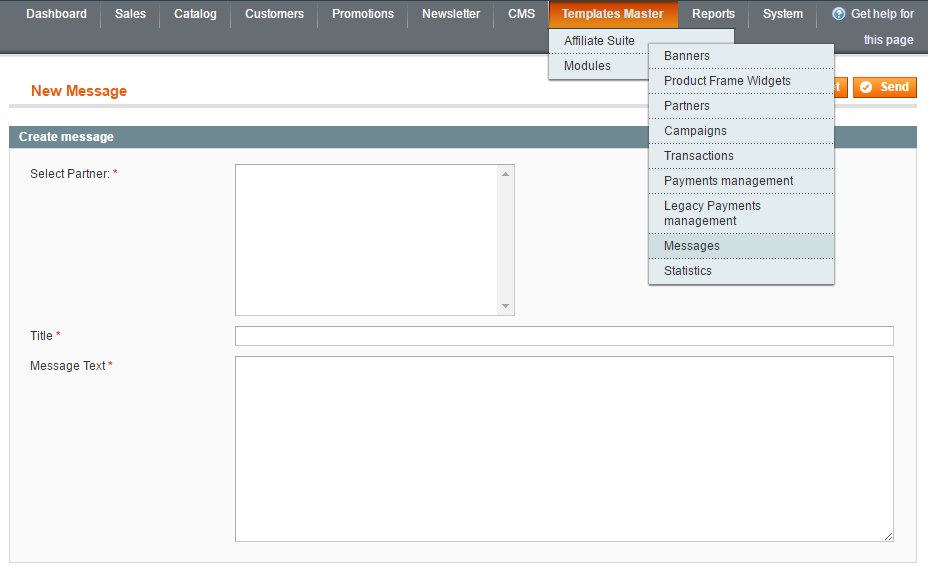
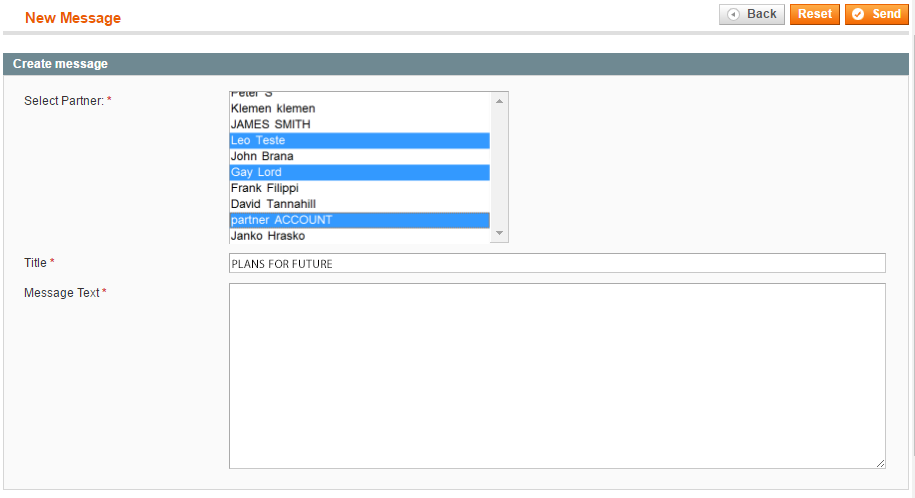
affiliate suite manual added

diff --git a/m1/extensions/affiliatesuite/admin-interfaces-for-admins.md b/m1/extensions/affiliatesuite/admin-interfaces-for-admins.md
@@ -1,0 +1,140 @@
+---
+layout: default
+title: Affiliate Suite for admins
+description: magento affiliate suite module
+keywords: >
+  magento affiliate program, magento affiliate extension, magento affiliate plugin, 
+  magento affiliate coupon, affiliate extension magento
+category: Affiliate Suite
+---
+
+# Admin interfaces for admins
+
+- [How to create and manage Affiliate campaign](#how-to-create-and-manage-affiliate-campaign)
+- [How to create banners](#how-to-create-banners)
+- [Manage Affiliate partners](#manage-affiliate-partners)
+- [Manage Payments](#manage-payments)
+- [Transactions Menu](#transactions-menu)
+- [Manage Messages](#manage-messages)
+- [Manage Statistics](#manage-statistics)
+- [Affiliate registration link](#affiliate-registration-link)
+
+### How to create and manage Affiliate campaign
+
+Add new campaign by navigating to `Templates Master / Affiliate Suite / Campaigns` and click **Add New Campaign**.
+
+You can see 2 tabs: `Campaign’s properties` and `Detailed commission conditions`.
+
+![Affiliate program management](/images/m1/extensions/affiliate/campaign-information.png)
+
+-   `Title` - set title of the campaign.
+-   `Partner Status` - the campaign can be either Hidden or Visible. Hidden campaigns will be applied and visible to partners no longer.
+
+![Affiliate program management](/images/m1/extensions/affiliate/commission-information.png)
+
+Please specify a partner commission amount here. Fill in the fields. In **Click price** set fixed commission amount for each clicks. In **Registration price** choose fixed commission amount for each new client’s registred via referral link or banner. In **Sale price** set commission for each order reffered via affialite link (fixed amount or percent of product value).
+
+### How to create banners?
+
+Your partners can use your affiliate banner on their website, blog or in social media. In order to create new banner or to edit an existing one, you can go `Templates Master / Affiliate Suite / Banners`.
+
+![Affiliate program management](/images/m1/extensions/affiliate/banner.png)
+
+-   `Banner Type` - there are 4 different banner types such as image, html, text link and link.
+-   `Name` - set the banner name here.
+-   `Description` - specify the description on the banner.
+-   `Store View` - assign your banner to specific store view.
+-   `Url` - assign a link to the banner (when you click a banner, it will redirect you to this link).
+-   `Target` - set `Target html attribute` for anchor tag. Choose `Blank` to open the referred page in new browser tab or `Self` to open it in the current one.
+-   `Image` - upload the image from your computer.
+-   `Image Url` - specify image address for a banner located on different location.
+-   `Image Width/height` - set a size of banner.
+-   `Link text` - set a text for a link banner.
+-   `Html code` - insert html code here if you are using html type banner.
+
+### Manage Affiliate partners
+
+Go to `Templates Master / Affiliate Suite / Partners`. 
+
+#### Partners grid
+
+`Manage partners` interface provides you with a list of all affiliate partners with information about their activation status and registration date. You can view details by clicking on selected partner. In order to lock the referral account of a partner, you have to click on this partner and change a status to `Disapproved` in the `Edit Partner menu` (once an Affiliate account is disapproved, this partner can’t use any Affiliate functions untill it will be approved again). Finally click **Save Partner** button.
+
+#### Approving Pending Members
+
+Using **Status** selector, you can change Pending status to Approved. In case you don’t want to approve partner, please select Disapproved.
+
+#### Adding new Partner
+
+![Affiliate program management](/images/m1/extensions/affiliate/edit-partner.png)
+
+-   `Data` - please fill in all required fields.
+-   `Paids`- shows a partner payment history. Check out all payments made as well as the pending and detailed transaction information.
+-   `Orders` - here you can a list of all products ordered by reffered customers and their orders' status.
+-   `Customers` - here you can see a list of reffered customers and their account details.
+
+### Manage Payments
+
+Go `Templates Master / Affiliate Suite / Payments management`.
+
+Store administrator can automatically sum up all transactions for every partner as well as manage payouts. Index transaction button processes all transactions and checks if minimal payment sum and minimal period are met. Both these settings can be changed in `Affiliate Suite extension configuration`. As soon as transactions have been processed, admin can export lists to CSV or XML and set all transactions as paid.
+
+In order to index transaction, admin should click **Index transaction** button. Affiliate suite will sum up all transactions which already overcame the payout minimum period.
+
+If you've set the Minimum Payout Value to 2 weeks in order to check if the transaction was not a fraud, then all transactions made before that period will be with pending status.
+
+### Transactions Menu
+
+You can see a complete list of all transactions generated by partners. Each transaction includes the information about the order id, affiliate partner’s name, banner or Product Frame widget, transaction time and status.
+
+![Affiliate program management](/images/m1/extensions/affiliate/manage-transactions.png)
+
+Choose a transaction you want to edit. 
+
+![Affiliate program management](/images/m1/extensions/affiliate/view-transaction.png)
+
+`Order Products tab` shows the details of order products, including the name, price and commission.
+
+### Manage Messages
+
+Store administrator can send messages from the backend. 
+
+#### Sending message
+
+In order to send a message, go `Templates Master / Affiliate Suite / Messages` and click **New Message**. 
+
+![Affiliate program management](/images/m1/extensions/affiliate/new-message.png)
+
+#### Replying message
+
+All messages (incoming and outgoing) can be found in `Templates Master / Affiliate Suite / Messages` interface. 
+
+![Affiliate program management](/images/m1/extensions/affiliate/messages-grid.png)
+
+In order to reply a message, click selected message. You will be redirected to the `View Message` page. Now you can leave a reply and click **Send** afterwords.
+
+### Manage Statistics
+
+Statistics information is available at `Templates Master / Affiliate Suite / Statistics`. You can view detailed info about you affiliate partners, including their activation status, total pending and paid values.
+
+Information about Transaction (clicks, registrations and sales), Payout (Paid), Partner (Registration) and Traffic Log visualized Graphs is also available there.
+
+![Affiliate program management](/images/m1/extensions/affiliate/managing-statistics.png)
+
+You are also allowed to follow the information for selected period like a week, month, year or 2 years.
+
+### Affiliate registration link
+
+That module provides admin with a registration link that can be placed anywhere on site. Please add the following path after your site address:`affiliatesuite_admin/account/create`
+
+For example:`http://yourstore.com/index.php/affiliatesuite_admin/account/create/`
+
+If non-Affiliate customer clicks this link, he will be redirected to the registration page. The Affiliate partner will see `My Account page`.
+
+#### You can also check:
+
+*   [Installation](../installation/)
+*   [Configuration](../configuration/)
+*   [Admin interfaces for partners](../admin-interfaces-for-partners/)
+*   [Support](https://swissuplabs.com/contacts/)
+*   [Forum](https://swissuplabs.com/magento-forum/)

diff --git a/m1/extensions/affiliatesuite/admin-interfaces-for-partners.md b/m1/extensions/affiliatesuite/admin-interfaces-for-partners.md
@@ -1,0 +1,95 @@
+---
+layout: default
+title: Affiliate Suite for partners
+description: magento affiliate suite module
+keywords: >
+  magento affiliate program, magento affiliate extension, magento affiliate plugin, 
+  magento affiliate coupon, affiliate extension magento
+category: Affiliate Suite
+---
+
+# Admin interfaces for partners
+
+- [Subscribe to the Affiliate system](#subscribe-to-the-affiliate-system)
+- [Change partner account information](#change-partner-account-information)
+- [Change Campaign](#change-campaign)
+- [How to start earning with Affiliate Suite](#how-to-start-earning-with-affiliate-suite)
+- [Other tabs at front-end](#other-tabs-at-front-end)
+
+### Subscribe to the Affiliate system
+
+Partners can sign up for affiliate programm by registering on `Creating Partner Account` page. After registering, partners will be redirected to `My Account / Affiliate Partner Dashboard`. Partner account confirmation can also be required according to extension settings.
+
+Affiliate Partner’s page at front-end comes with the following interfaces:
+
+**Account Information, Banners, Proframe Widget, Create html affiliate link, Campaigns, Payouts, Transactions, Messages and Statistics.**
+
+### Change partner account information
+
+Affiliate partner can modify his referral account information at `My Account / Account information`. Partner can change preferable payment method and requisites on this page. As soon as partners transactions reach `Minimal payout` value, pratner will receive payouts.
+
+![General](/images/m1/extensions/affiliate/account-information.png)
+
+### Change Campaign
+
+In `My Account / Campaigns` interface the affiliate partner can choose the one of active campaign and get reward according to selected campaign settings.
+
+![Affiliate partners](/images/m1/extensions/affiliate/campaigns.png)
+
+### How to start earning with Affiliate Suite
+
+#### Using text link
+
+Visit the page you would like to share. Copy the **http link** from your browser address bar. Follow `Affiliate / My Account / Create html affiliate` link and paste the link into **Url** field, then press **Get Url Code** button.
+
+Now you can start sharing the affiliate link with your friends or other people. Text link can be shared on any type of chanells such as emails, forums or sites.
+
+![Affiliate partners](/images/m1/extensions/affiliate/using-text-url.png)
+
+#### Using Banner
+
+Affiliate banners can be placed in any website, blog or even social profile page.
+
+In order to get a banner code, please visit `My Account / Manage Banners` and select banner your want to place. In order to get banner copy, click **Show Banner Code** button and `copy banner HTML code`.
+
+![Affiliate partners](/images/m1/extensions/affiliate/manage-banners.png)
+
+#### Using Product frame Widget
+
+Product Frame Widget allows you to place the list of advertised products on partners website, forum, blog. In order to get Proframe Widget code, the partner should has to go to `My Account/ Proframe Widget` interface and select a widget he wants to use. Partners can customize Columns and Products count, inframe width and height settings according to their needs. Then partners can simply copy the provided code and place that on their forum, blog or website.
+
+![Affiliate partners](/images/m1/extensions/affiliate/proframe-widget.png)
+
+#### How to receive a payout?
+
+Affiliate partner can receive payouts as soon as balance reaches the minimal payout value and minimal payout period. Customer can easily check a current detailed payouts list at `My account \ Payouts`.
+
+### Other tabs at front-end
+
+#### Transactions interface
+
+This interface allows to view a detailed list of transactions generated by partners as well as  their current status.
+
+Transaction status for each new transaction will have pending status by default. As soon as transaction gets older then minimal payout period, it will get `Waiting for get paid` status. Each suspicious transaction can be blocked by an administrator. After transaction will be paid, the `Payments transactions status` will be changed to `Paid`.
+
+![Affiliate partners](/images/m1/extensions/affiliate/my-transactions.png)
+
+#### Messages
+
+Messages tab allows partners to send and to receive messages from affiliate managers. In order to send new message, please click **New Message** button and set the message body and title.
+
+![Affiliate partners](/images/m1/extensions/affiliate/message.png)
+
+### Statistics interface
+
+Statistic interface provides a complete information about clicks, registrations and sales generated by partners referees. 
+
+![Affiliate partners](/images/m1/extensions/affiliate/statistics-diagram.png)
+
+#### You can also check:
+
+*   [Installation](../installation/)
+*   [Admin interfaces for admins](../admin-interfaces-for-admins/)
+*   [Configuration](../configuration/)
+*   [Support](https://swissuplabs.com/contacts/)
+*   [Forum](https://swissuplabs.com/magento-forum/)

diff --git a/m1/extensions/affiliatesuite/configuration.md b/m1/extensions/affiliatesuite/configuration.md
@@ -15,4 +15,41 @@ category: Affiliate Suite
 - [Payout](#payout)
 - [Proframe widget](#proframe-widget)
 
+### General
 
+![General](/images/m1/extensions/affiliate/configuration-general.png)
+
+-   `Enable` - select **Yes** to enable Affiliate Suite extension.
+-   `Affiliate link in header` - if you select Yes, visitors will see the **Affiliate** link in the top menu.
+-   `Cookie Period (Days)` - specify the time for storing referee’s information in visitors cookies. Time is measured from referre clicked the link. Default value is 90 days.
+-   `Affiliate Url Param Name` - customizable URL prefix used in referral link, followed by referral’s unique code.
+
+### Affiliate account settings
+
+![General](/images/m1/extensions/affiliate/configuration-account-settings.png)
+
+-   `New accounts require approval` - if you select No, then partners, registered at your affiliate program, will be able to use Affiliate’s features immediately without the administrator’s approval. If you select Yes, then partners should wait for admin permission. Administrator can approve the pending accounts at `Affiliate Suite/Manage Partners` interface. In order to do that, administrator has to select pending partners account and change `status to Approved`.
+-   `Autoselect default campaign after new partner account is created` - select Yes to automatically assign the default campaign to new partners accounts.
+-   `Default campaign`- select the default campaign for new partners to let them use after completing registration.
+
+### Payout
+
+![General](/images/m1/extensions/affiliate/configuration-payout.png)
+
+-   `Minimal Period` - choose the minimal period that will be used for calcualting payouts and minimizing fraud transaction risk. All transaction that were placed before minimal period, will not be taken into total payout sum. Possible values: `weeks, two weeks or month`.
+-   `Methods`- specify the payout methods. For example, it can be Paypal, Googlecheckout.
+-   `Minimal Payout Value` - choose the Minimal Payout Value for referral. When partner’s balance reaches this point then partner will be able to receive a payout.
+
+### Proframe widget
+
+![General](/images/m1/extensions/affiliate/configuration-proframe-widget.png)
+
+Select **Yes** to activate Product Frame Widget feature.
+
+#### You can also check:
+
+*   [Installation](../installation/)
+*   [Admin interfaces for admins](../admin-interfaces-for-admins/)
+*   [Admin interfaces for partners](../admin-interfaces-for-partners/)
+*   [Support](https://swissuplabs.com/contacts/)
+*   [Forum](https://swissuplabs.com/magento-forum/)

diff --git a/m1/extensions/affiliatesuite/index.md b/m1/extensions/affiliatesuite/index.md
@@ -12,31 +12,14 @@ category: Affiliate Suite
 
 Affiliate Suite is a perfect solution for creating your own affiliate program. Our module includes banner manager and flexible product frame widgets tool. Banners can be widely used by affiliate partners. As soon as the user places the order or performs other actions, set in campaign settings, the affiliate partner will earn a comission, previously set in campaign.
 
-In back-end, Affiliate Suite comes with 7 interfaces allowing affiliate manager control affiliate campaigns, affiliate payments as well as partner’s information and statistics.
+![Magento affiliate extension](/images/m1/extensions/affiliate/frontend.png)
 
-**Banners** affiliate banners management interface.
+In back-end, Affiliate Suite comes with 7 interfaces allowing affiliate manager control the affiliate campaigns, affiliate payments, transactions, statistics as well as partner’s information and statistics. 
 
-**Product Frame Widgets** enables adding and customizing product frames widgets. Product Frame Widget allows creating the list of promoted products on partner’s websites.
+[Using product frame widget](admin-interdaces-for-partners/) you can create easily the list of promoted products on partners website, forum, blog.
 
-**Partners** management interface. Admin can accept add or delete existing partners; approve partner registration.
+- [Installation](installation/)
+- [Configuration](configuration/)
+- [Admin interfaces for admins](admin-interfaces-for-admins/)
+- [Admin interfaces for partners](admin-interfaces-for-partners/)
 
-**Campaigns** allows you to create and modify affiliate campaigns.
-
-**Transactions** interface for transactions managemenet generated by affiliate partners.
-
-**Payments** allows you to get control over payments to partners.
-
-**Messages**  allows to monitor received messages from affiliate partners as well as to send messages directly to them.
-
-**Statistics** shows the statistics of transactions (clicks, registration and sales), payouts, partners (registration) and traffic.
-
-- `Installation`
-- `Configuration`
-- `Affiliate banners`
-- `Affiliate partners`
-- `Messages`
-- `Affiliate campaigns`
-- `Payment management`
-- `Product frame widget`
-- `Statistics`
-- `Transactions`
